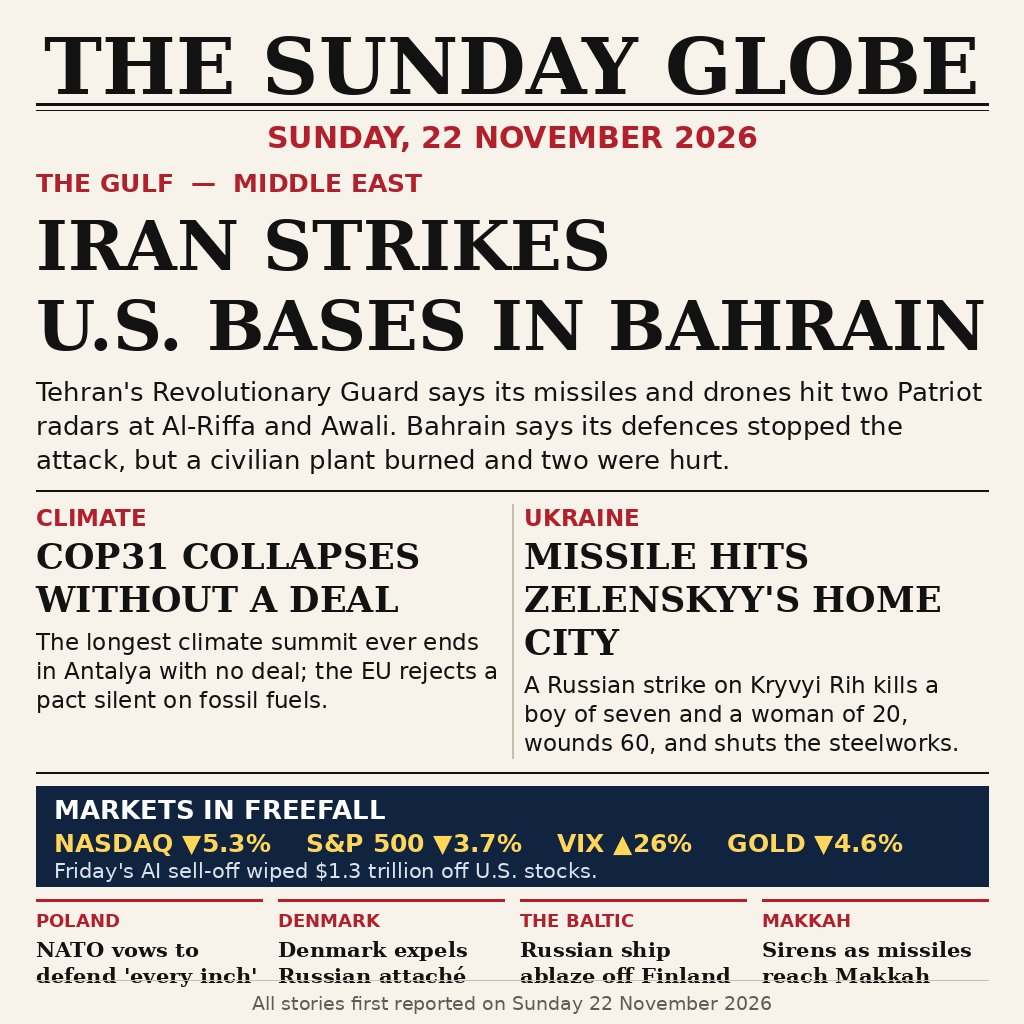
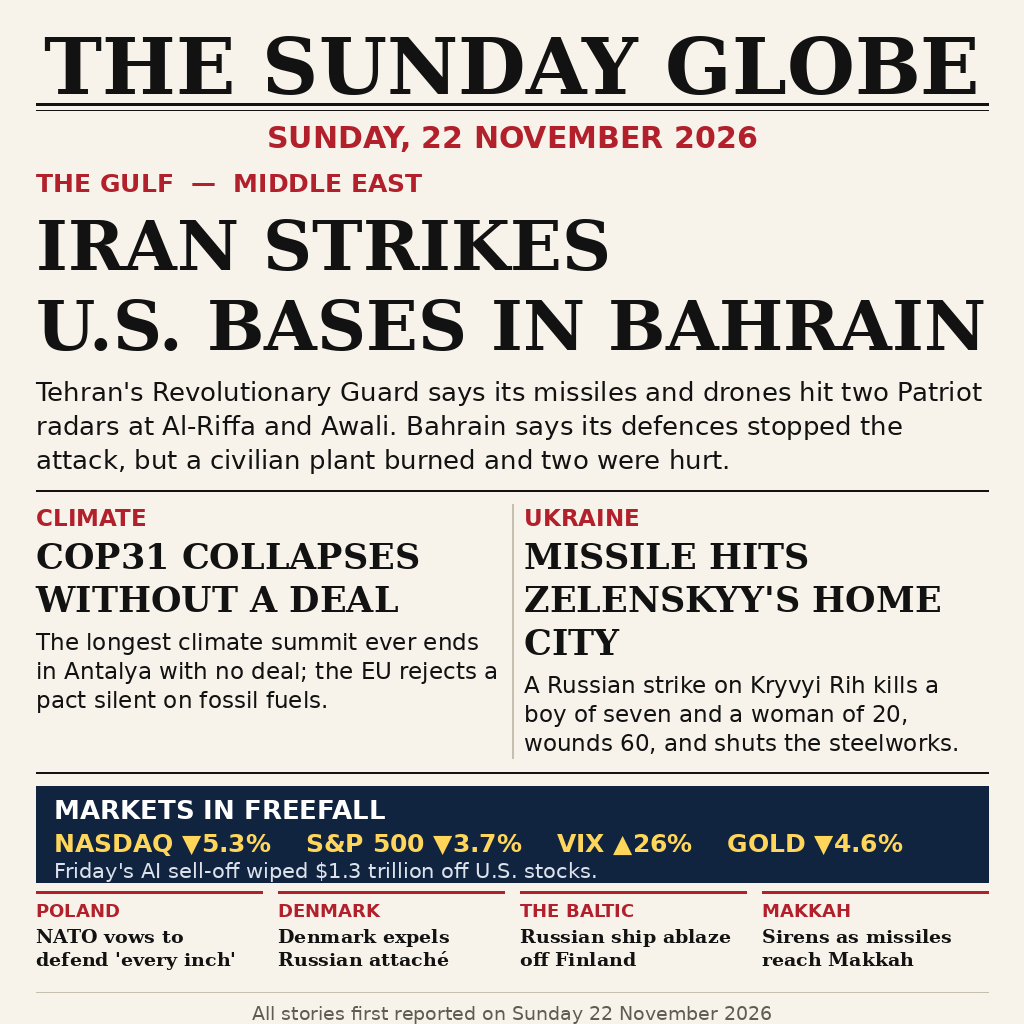
Fix truncated bottom card titles: shrink card headlines, tighten markets strip, move footer down

Changed region(s): [[0.0312, 0.8438, 0.9688, 1.0]]

diff --git a/render.py b/render.py
@@ -156,7 +156,7 @@ def build():
     y += 14
 
     # ---- Markets strip --------------------------------------------------
-    band_h = 100
+    band_h = 96
     draw.rectangle([MARGIN, y, W - MARGIN, y + band_h], fill=NAVY)
     tf = font(SANS_BOLD, 26)
     draw.text((MARGIN + 18, y + 8), "MARKETS IN FREEFALL",
@@ -168,7 +168,7 @@ def build():
     draw.text((MARGIN + 18, y + 72),
               "Friday's AI sell-off wiped $1.3 trillion off U.S. stocks.",
               font=sf, fill=(220, 226, 235))
-    y += band_h + 14
+    y += band_h + 10
 
     # ---- Bottom cards ---------------------------------------------------
     card_w = 226
@@ -182,17 +182,17 @@ def build():
     for i, (kicker, headline) in enumerate(cards):
         x = MARGIN + i * (card_w + gap)
         hrule(draw, x, x + card_w, y, width=3, fill=RED)
-        yy = y + 10
+        yy = y + 8
         kf = font(SANS_BOLD, 18)
         draw.text((x, yy), kicker, font=kf, fill=RED)
-        yy += 27
-        hf = font(SERIF_BOLD, 21)
+        yy += 25
+        hf = font(SERIF_BOLD, 19)
         draw_lines(draw, x, yy, wrap(draw, headline, hf, card_w),
-                   hf, INK, 26)
+                   hf, INK, 23)
 
     # ---- Footer ---------------------------------------------------------
-    fy = H - 32
-    hrule(draw, MARGIN, W - MARGIN, fy - 12, width=1, fill=RULE)
+    fy = H - 22
+    hrule(draw, MARGIN, W - MARGIN, fy - 10, width=1, fill=RULE)
     ff = font(SANS, 19)
     foot = "All stories first reported on Sunday 22 November 2026"
     fw = draw.textlength(foot, font=ff)
